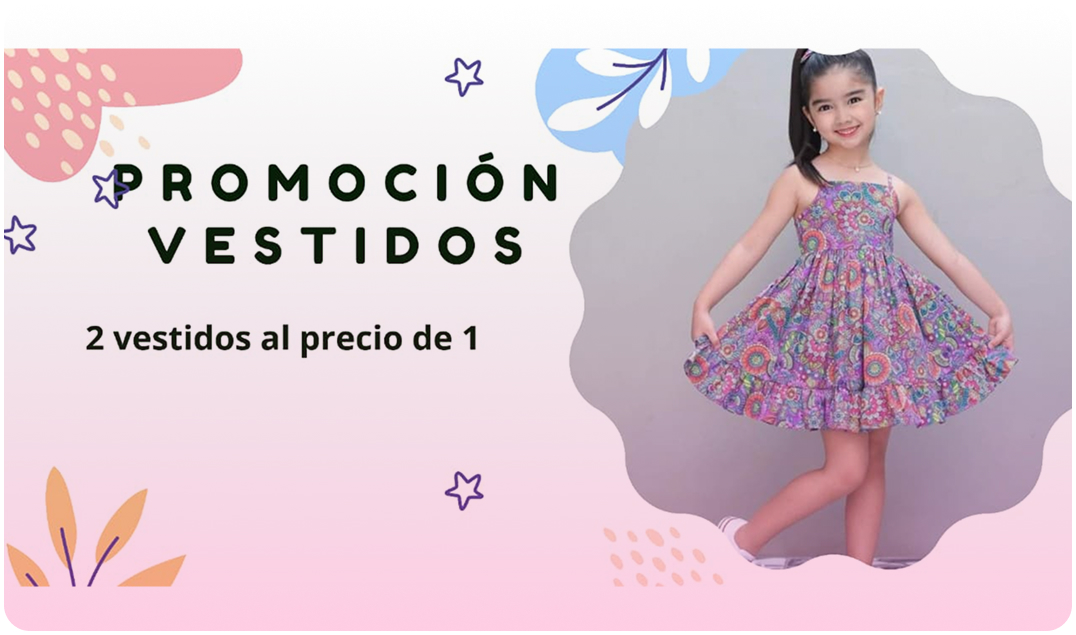
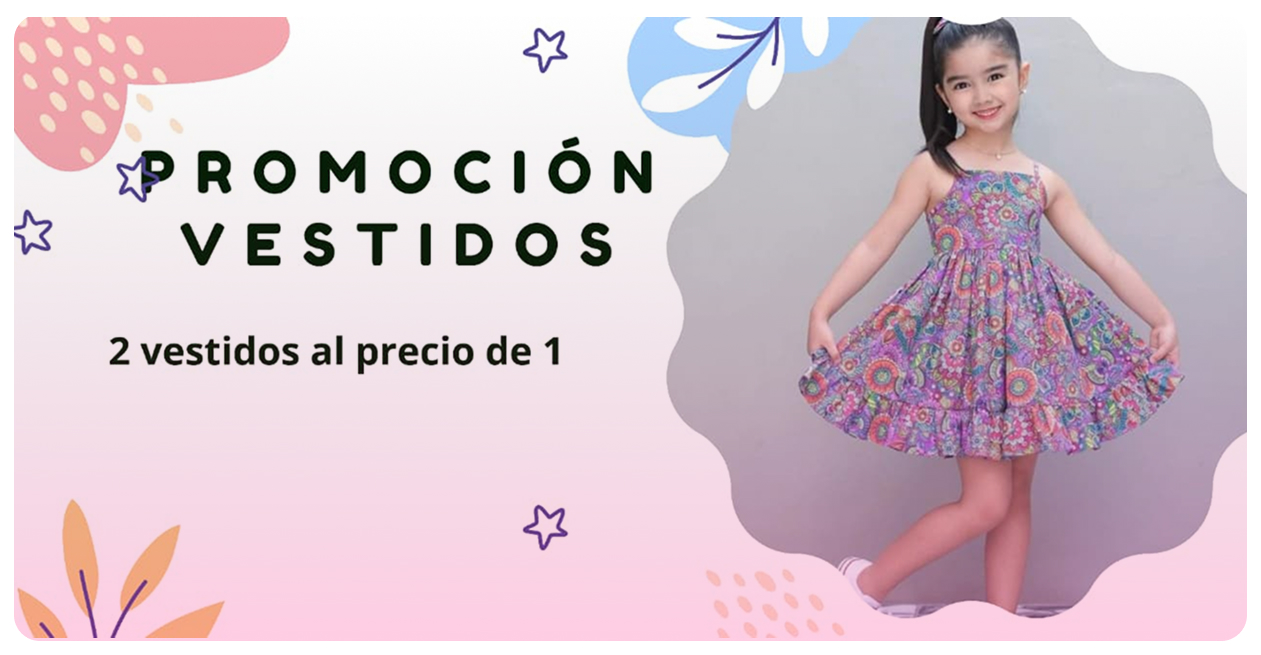
promos carusel

diff --git a/client/src/pages/principalPage/components/PromosCard.tsx b/client/src/pages/principalPage/components/PromosCard.tsx
@@ -1,11 +1,29 @@
-
+import Slider from "react-slick";
+import "slick-carousel/slick/slick.css";
+import "slick-carousel/slick/slick-theme.css";
 
 const PromosCard = () => {
+
+    const settings = {
+        dots: true,
+        infinite: true,
+        slidesToShow: 1,
+        slidesToScroll: 1,
+        autoplay: true,
+        autoplaySpeed: 5000
+    };
+
     return (
-        <div className='md:max-w-[1200px] xl:mx-auto xl:my-30 bg-white h-full w-full p-[7%] pb-[10%] md:py-0'>
-            <div className=" h-full w-full flex justify-center items-center">
-                <img className="xl:aspect-[5/3]  object-cover w-full h-full"
-                src="/promos/promos-1.jpg" alt="Promoción destacada" />
+        <div className='md:max-w-[1200px] xl:mx-auto xl:my-30 bg-white h-full w-full md:py-0'>
+            <div className="h-auto w-full items-center">
+                <Slider {...settings}>
+                    <img className="h-full w-full object-cover" src="/promos/promos-1.jpg" alt="Promocion 2x1 en vestidos" />
+                    <img className="h-full w-full object-cover" src="/promos/descuento-primavera.jpg" alt="Descuento por primavera" />
+                    <img className="h-full w-full object-cover" src="/promos/descuento-verano.jpg" alt="Descuento por verano" />
+                    <img className="h-full w-full object-cover" src="/promos/promocion-vestidos.jpg" alt="Promoción de vestidos" />
+                    <img className="h-full w-full object-cover" src="/promos/coleccion-invierno.jpg" alt="Promoción coleccion de invierno" />
+                    <img className="h-full w-full object-cover" src="/promos/coleccion-verano.jpg" alt="Promoción coleccion de verano" />
+                </Slider>
             </div>
         </div>
     )

diff --git a/client/src/pages/principalPage/components/OfertasCard.tsx b/client/src/pages/principalPage/components/OfertasCard.tsx
@@ -1,0 +1,30 @@
+import Slider from "react-slick";
+import "slick-carousel/slick/slick.css";
+import "slick-carousel/slick/slick-theme.css";
+
+const OfertasCard = () => {
+
+    const settings = {
+        dots: true,
+        infinite: true,
+        slidesToShow: 1,
+        slidesToScroll: 1,
+        autoplay: true,
+        autoplaySpeed: 5000
+    };
+
+    return (
+        <div className='md:max-w-[1200px] xl:mx-auto xl:my-30 bg-white h-full w-full md:py-0'>
+            <div className="h-auto w-full items-center">
+                <Slider {...settings}>
+                    <img className="h-full w-full object-cover" src="/categoria/vestidos.jpg" alt="Categoría vestidos" />
+                    <img className="h-full w-full object-cover" src="/categoria/conjuntos.jpg" alt="Categoría conjuntos" />
+                    <img className="h-full w-full object-cover" src="/categoria/blusas.jpg" alt="Categoría blusas" />
+                    <img className="h-full w-full object-cover" src="/categoria/pantalones.jpg" alt="Categoría pantalones" />
+                </Slider>
+            </div>
+        </div>
+    )
+}
+
+export default OfertasCard

diff --git a/client/src/pages/principalPage/Categorias.tsx b/client/src/pages/principalPage/Categorias.tsx
@@ -1,0 +1,21 @@
+import React from 'react'
+import TitleSectionOfertas from './components/TitleSectionOfertas'
+import OfertasCard from './components/OfertasCard'
+
+const Categorias = () => {
+    return (
+        <>
+            <TitleSectionOfertas title='POR CATEGORÍA'>
+                <OfertasCard />
+                <div className='flex gap-4 xl:gap-20 text-sm items-center justify-center w-full mb-5 mt-10 xl:mb-30'>
+                    <a href="/vestidos" className='font-hug-me bg-buttons-color text-white text-xs xl:text-lg p-2 md:p-3 xl:px-8 rounded-xl'>VESTIDOS</a>
+                    <a href='/blusas' className='font-hug-me bg-buttons-color text-white text-xs xl:text-lg p-2 md:p-3 xl:px-8 rounded-xl'>BLUSAS</a>
+                    <a href='/pantalones' className='font-hug-me bg-buttons-color text-white text-xs xl:text-lg p-2 md:p-3 xl:px-8 rounded-xl'>PANTALONES</a>
+                    <a href='/conjuntos' className='font-hug-me bg-buttons-color text-white text-xs xl:text-lg p-2 md:p-3 xl:px-8 rounded-xl'>CONJUNTOS</a>
+                </div>
+            </TitleSectionOfertas>
+        </>
+    )
+}
+
+export default Categorias

diff --git a/client/src/pages/principalPage/components/TitleSectionPromos.tsx b/client/src/pages/principalPage/components/TitleSectionPromos.tsx
@@ -1,18 +1,17 @@
-import React from 'react'
 
 interface TitleSectionProps {
     title: string;
     children?: React.ReactNode
 }
 
-const TitleSection = ({title, children}: TitleSectionProps) => {
+const TitleSectionPromos = ({title, children}: TitleSectionProps) => {
   return (
     <div>
         <div className='bg-primary w-full h-20 xl:h-40 flex flex-col items-center justify-center'>
             <h2 className='font-paloseco text-xl md:text-2xl xl:text-5xl text-white'>{title}</h2>
         </div>
         
-        <div className='h-full'>
+        <div className='h-full lg:max-w-[1100px]  my-[5%] xl:my-0 mx-[5%] xl:mx-auto'>
             {
                 children
             }
@@ -21,4 +20,4 @@ const TitleSection = ({title, children}: TitleSectionProps) => {
   )
 }
 
-export default TitleSection
+export default TitleSectionPromos

diff --git a/client/src/pages/principalPage/components/TitleSectionOfertas.tsx b/client/src/pages/principalPage/components/TitleSectionOfertas.tsx
@@ -1,0 +1,23 @@
+
+interface TitleSectionProps {
+    title: string;
+    children?: React.ReactNode
+}
+
+const TitleSectionOfertas = ({title, children}: TitleSectionProps) => {
+  return (
+    <div>
+        <div className='bg-primary w-full h-20 xl:h-40 flex flex-col items-center justify-center'>
+            <h2 className='font-paloseco text-xl md:text-2xl xl:text-5xl text-white'>{title}</h2>
+        </div>
+        
+        <div className='h-full lg:max-w-[1200px] my-[5%] xl:my-0 mx-[5%] xl:mx-auto'>
+            {
+                children
+            }
+        </div>
+    </div>
+  )
+}
+
+export default TitleSectionOfertas;

diff --git a/client/src/pages/principalPage/Promos.tsx b/client/src/pages/principalPage/Promos.tsx
@@ -1,12 +1,12 @@
 import PromosCard from './components/PromosCard'
-import TitleSection from './components/TitleSection'
+import TitleSectionPromos from './components/TitleSectionPromos'
 
 const Promos = () => {
     return (
         <>
-            <TitleSection title='PROMOS Y DESCUENTOS'>
+            <TitleSectionPromos title='PROMOS Y DESCUENTOS'>
                 <PromosCard />
-            </TitleSection>
+            </TitleSectionPromos>
         </>
     )
 }

diff --git a/client/src/pages/principalPage/PrincipalPage.tsx b/client/src/pages/principalPage/PrincipalPage.tsx
@@ -1,4 +1,5 @@
 import About from "./About"
+import Categorias from "./Categorias"
 import FrontPage from "./FrontPage"
 import Promos from "./Promos"
 
@@ -8,6 +9,7 @@ const PrincipalPage = () => {
         <FrontPage />
         <About />
         <Promos />
+        <Categorias />
     </div>
   )
 }

diff --git a/client/src/index.css b/client/src/index.css
@@ -30,5 +30,6 @@
   --color-secondary-light: #FFDDE3;
   --color-secondary-pink: #FF7ADB;
   --color-secondary-purple: #730054;
+  --color-buttons-color: #F393A4
 
 }
